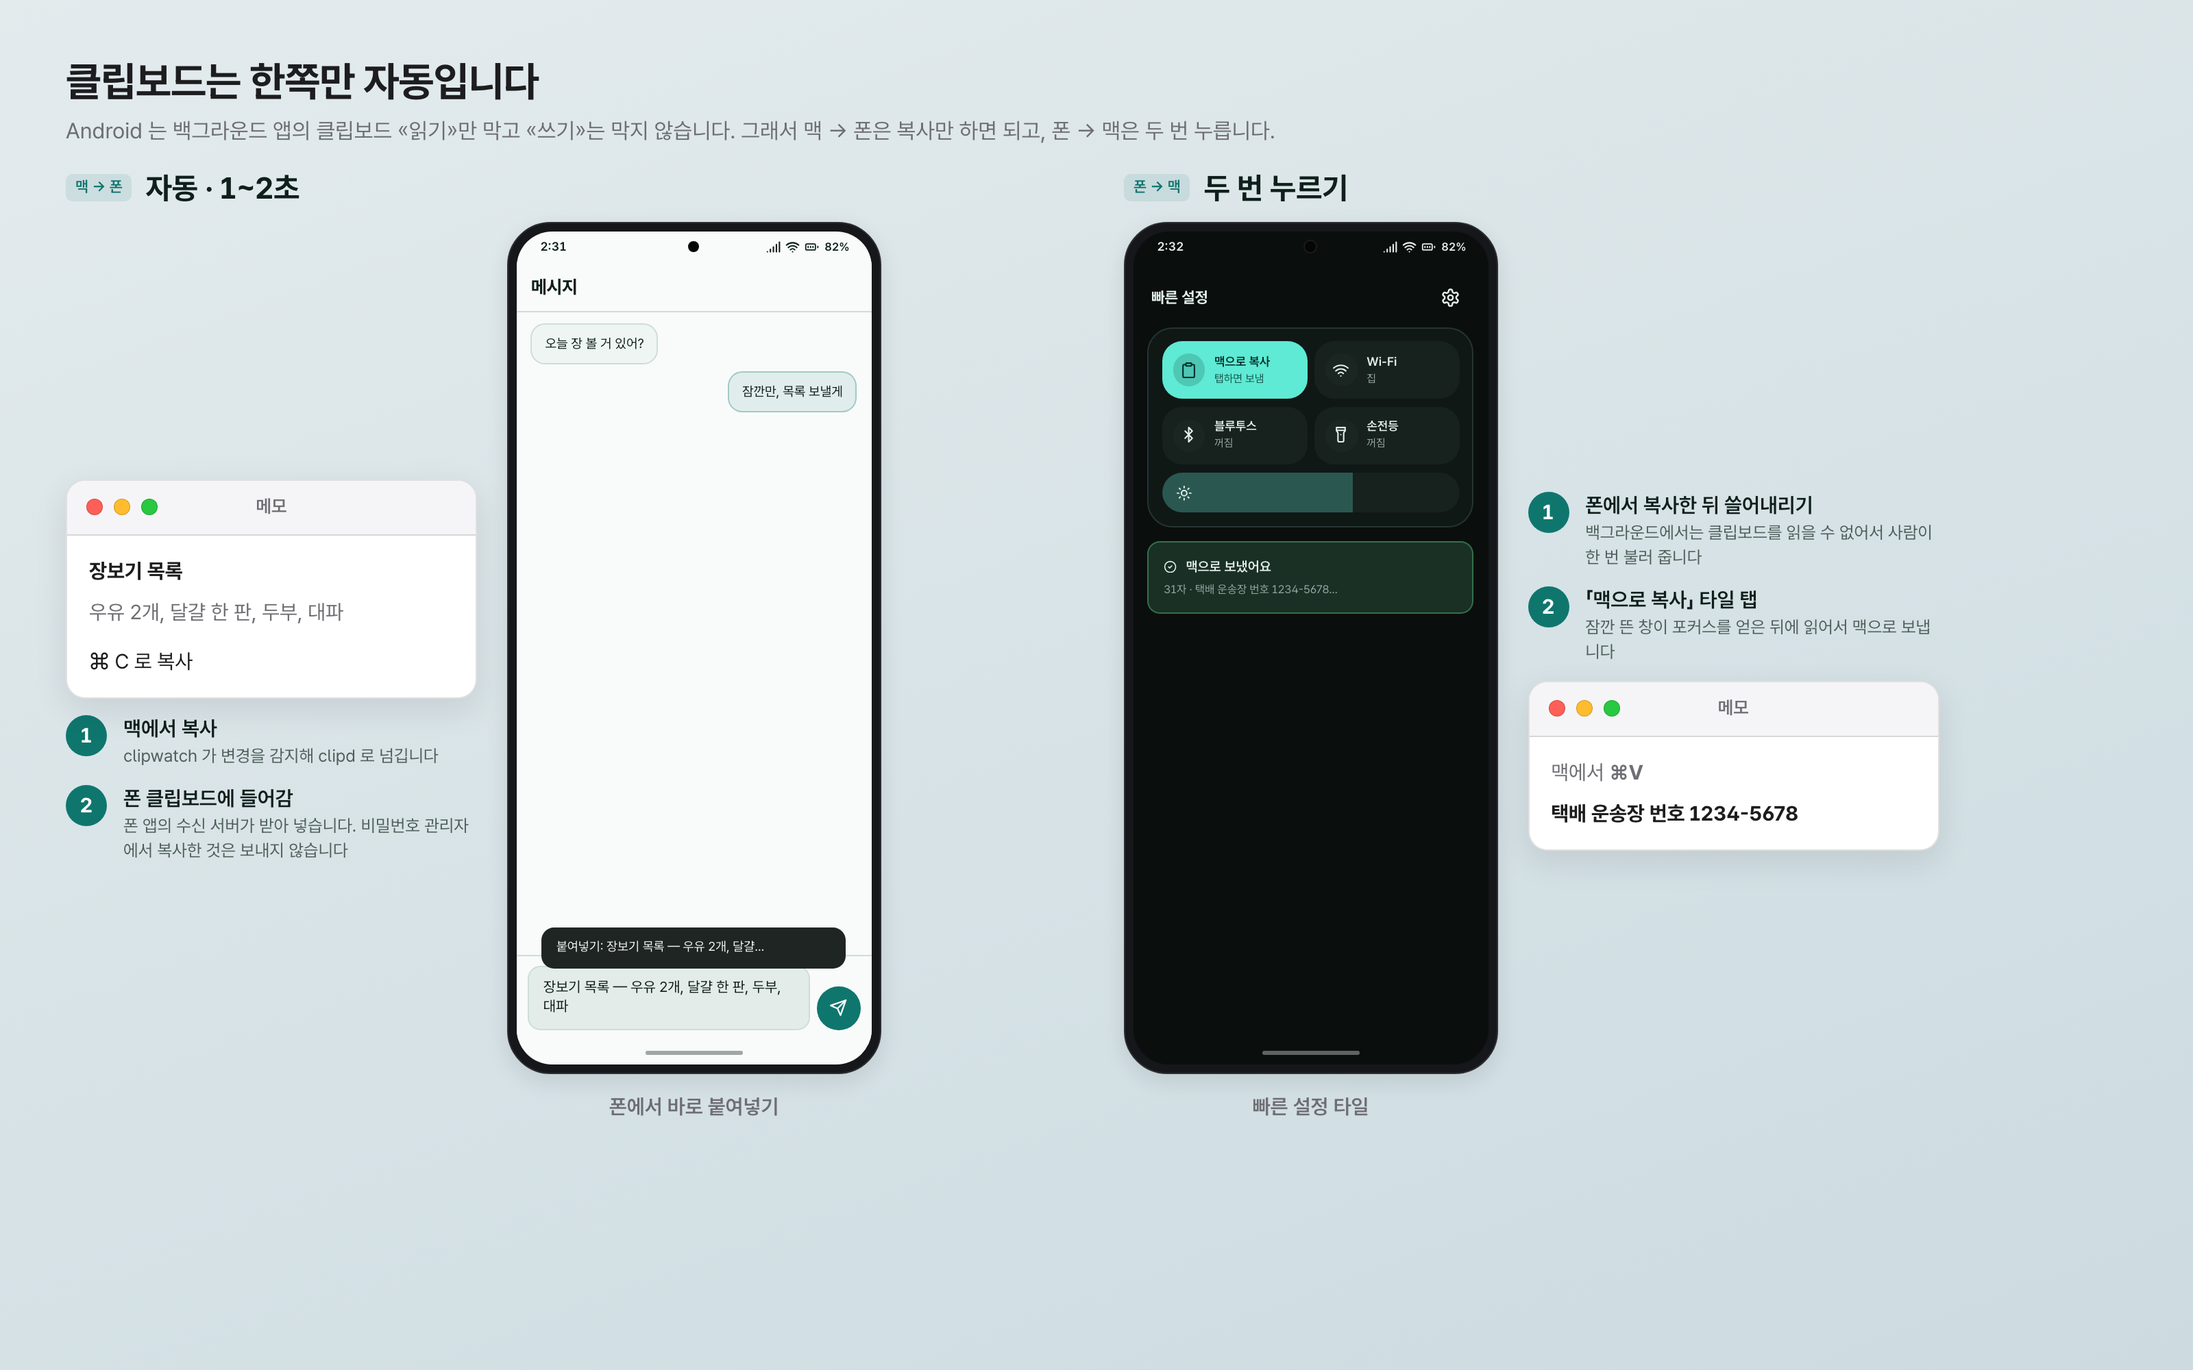
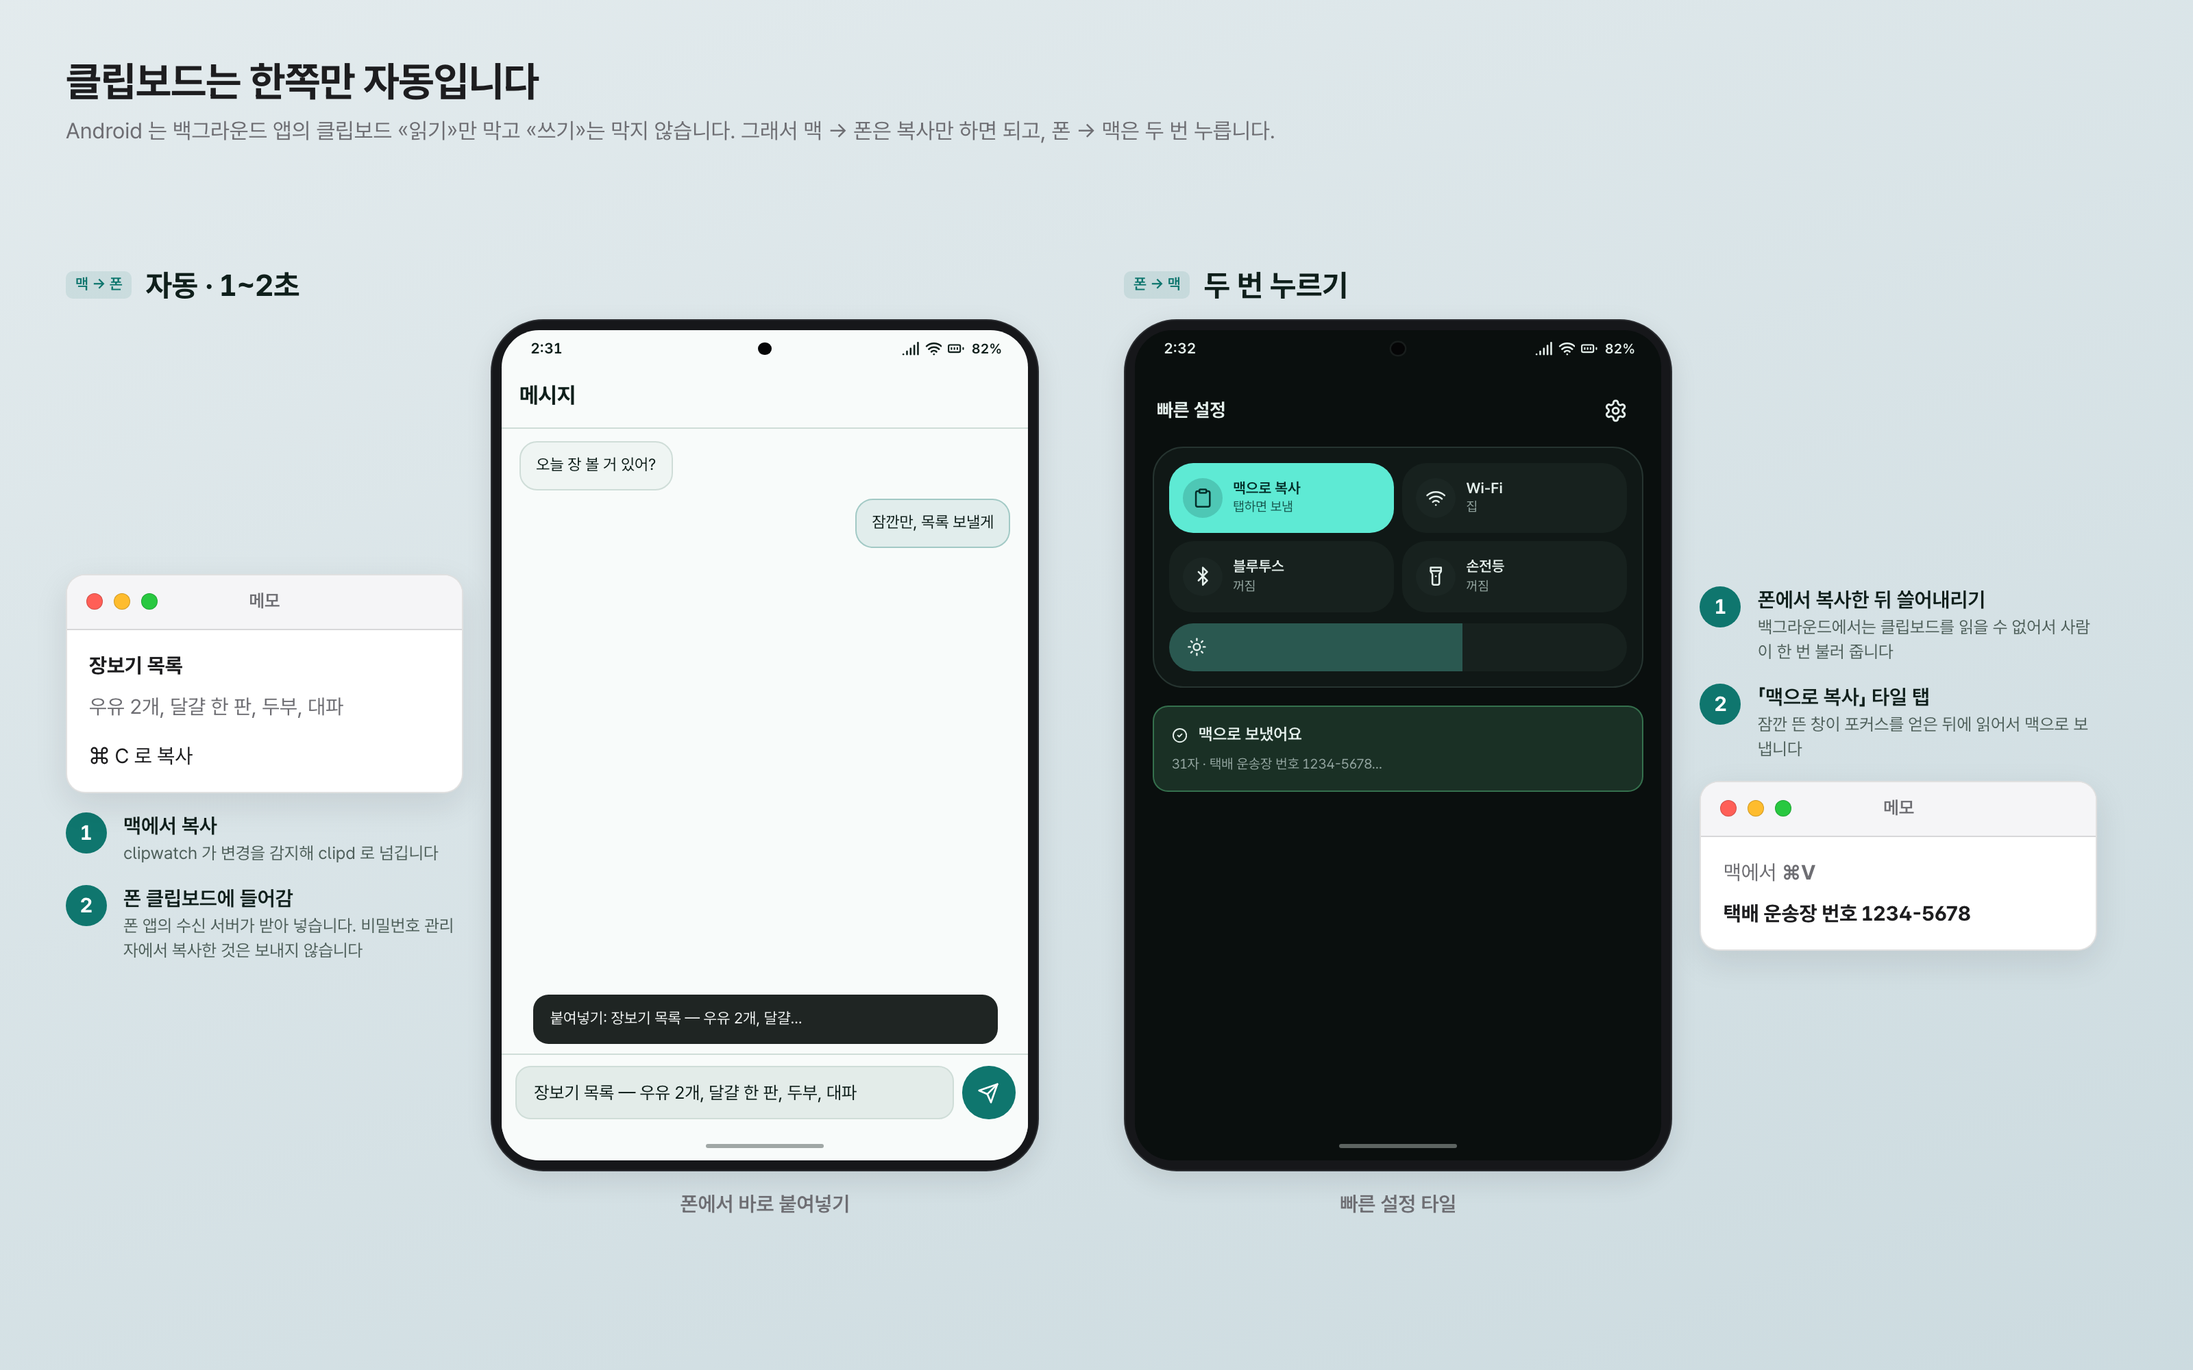
docs: re-render mockups at real Galaxy Z Fold8 ratios

Changed region(s): [[0.0312, 0.124, 0.9688, 0.899], [0.0625, 0.186, 0.1562, 0.217], [0.0625, 0.124, 0.1562, 0.155]]

diff --git a/docs/mockups/clipboard.html b/docs/mockups/clipboard.html
@@ -9,9 +9,9 @@
 <style>
   .layout { position: absolute; inset: 0; padding: 40px 48px; display: flex; flex-direction: column; gap: 18px; }
   .head { display: flex; flex-direction: column; gap: 6px; }
-  .row2 { flex: 1; display: grid; grid-template-columns: 1fr 1fr; gap: 40px; }
-  .flow { display: flex; align-items: center; gap: 22px; }
-  .steps { display: flex; flex-direction: column; gap: 12px; width: 300px; }
+  .row2 { flex: 1; display: grid; align-content: center; grid-template-columns: 1fr 1fr; gap: 40px; }
+  .flow { display: flex; align-items: center; gap: 20px; }
+  .steps { display: flex; flex-direction: column; gap: 14px; width: 290px; flex: none; }
   .step { display: flex; gap: 12px; align-items: flex-start; }
   .num { flex: none; width: 30px; height: 30px; border-radius: 15px; background: var(--accent); color: var(--on-accent); display: grid; place-items: center; font-weight: 700; font-size: 15px; }
   .qs-top { padding: 6px 4px 2px; display: flex; justify-content: space-between; align-items: center; }
@@ -33,7 +33,7 @@
       <div class="col-title"><span class="tag accent">맥 → 폰</span>자동 · 1~2초</div>
       <div class="flow">
         <div class="steps">
-          <div class="mac-window" style="width:300px">
+          <div class="mac-window" style="width:290px">
             <div class="mac-titlebar"><span class="traffic"><i></i><i></i><i></i></span><span class="mac-title">메모</span></div>
             <div class="mac-body snip">
               <div><b>장보기 목록</b></div>
@@ -45,7 +45,7 @@
           <div class="step"><span class="num">2</span><div><div class="card-title">폰 클립보드에 들어감</div><div class="meta">폰 앱의 수신 서버가 받아 넣습니다. 비밀번호 관리자에서 복사한 것은 보내지 않습니다</div></div></div>
         </div>
         <div>
-          <div class="fold-cover" style="--zoom:.66">
+          <div class="fold-cover" style="--zoom:.8">
             <div class="screen">
               <div class="status-bar" data-time="2:31"></div>
               <div class="app-bar"><span class="title">메시지</span></div>
@@ -71,7 +71,7 @@
       <div class="col-title"><span class="tag accent">폰 → 맥</span>두 번 누르기</div>
       <div class="flow">
         <div>
-          <div class="fold-cover dark" style="--zoom:.66">
+          <div class="fold-cover dark" style="--zoom:.8">
             <div class="screen">
               <div class="status-bar" data-time="2:32"></div>
               <div class="content">
@@ -98,7 +98,7 @@
         <div class="steps">
           <div class="step"><span class="num">1</span><div><div class="card-title">폰에서 복사한 뒤 쓸어내리기</div><div class="meta">백그라운드에서는 클립보드를 읽을 수 없어서 사람이 한 번 불러 줍니다</div></div></div>
           <div class="step"><span class="num">2</span><div><div class="card-title">「맥으로 복사」 타일 탭</div><div class="meta">잠깐 뜬 창이 포커스를 얻은 뒤에 읽어서 맥으로 보냅니다</div></div></div>
-          <div class="mac-window" style="width:300px">
+          <div class="mac-window" style="width:290px">
             <div class="mac-titlebar"><span class="traffic"><i></i><i></i><i></i></span><span class="mac-title">메모</span></div>
             <div class="mac-body snip">
               <div class="dim">맥에서 <b>⌘V</b></div>

diff --git a/docs/mockups/screen-kit.html b/docs/mockups/screen-kit.html
@@ -7,15 +7,15 @@
 <link rel="stylesheet" href="https://mockup-kit.invalid/kit.css">
 <script src="https://mockup-kit.invalid/kit.js"></script>
 <style>
-  .layout { position: absolute; top: 30px; left: 0; right: 0; bottom: 0; padding: 36px 44px; display: grid; grid-template-columns: 420px 1fr; gap: 36px; align-items: center; }
+  .layout { position: absolute; top: 30px; left: 0; right: 0; bottom: 0; padding: 36px 44px; display: grid; grid-template-columns: 440px 1fr; gap: 36px; align-items: center; }
   .left { display: flex; flex-direction: column; gap: 14px; align-items: center; }
   .mirror { width: max-content; }
   .mirror .mac-body { display: flex; justify-content: center; align-items: flex-start; padding: 18px; background: var(--panel2); }
   .mirror .mac-body > div { flex: none; }
-  .icons { display: grid; grid-template-columns: repeat(4, 1fr); gap: 16px 8px; padding: 18px 14px; }
-  .ic { display: flex; flex-direction: column; align-items: center; gap: 6px; font-size: 12px; color: var(--text); }
-  .ic .sq { width: 52px; height: 52px; border-radius: 16px; background: var(--panel2); border: 1px solid var(--border); display: grid; place-items: center; font-size: 22px; color: var(--dim); }
-  .ic .sq.folder { display: grid; grid-template-columns: 1fr 1fr; gap: 4px; padding: 9px; place-items: stretch; }
+  .icons { display: grid; grid-template-columns: repeat(4, 1fr); gap: 30px 10px; padding: 34px 26px; }
+  .ic { display: flex; flex-direction: column; align-items: center; gap: 8px; font-size: 14px; color: var(--text); }
+  .ic .sq { width: 68px; height: 68px; border-radius: 20px; background: var(--panel2); border: 1px solid var(--border); display: grid; place-items: center; font-size: 28px; color: var(--dim); }
+  .ic .sq.folder { display: grid; grid-template-columns: 1fr 1fr; gap: 5px; padding: 12px; place-items: stretch; }
   .ic .sq.folder b { border-radius: 5px; background: var(--accent-tint); border: 1px solid var(--border); }
 </style>
 </head>
@@ -35,7 +35,7 @@
       <div class="mac-window mirror">
         <div class="mac-titlebar"><span class="traffic"><i></i><i></i><i></i></span><span class="mac-title">Galaxy Z Fold 8</span></div>
         <div class="mac-body">
-          <div><div class="fold-cover" style="--zoom:.62">
+          <div><div class="fold-cover" style="--zoom:.66">
             <div class="screen">
               <div class="status-bar" data-time="4:10"></div>
               <div class="icons">

diff --git a/docs/mockups/scenes/2-notify-phone.html b/docs/mockups/scenes/2-notify-phone.html
@@ -1,23 +1,23 @@
 <!doctype html>
 <html lang="ko"><head><meta charset="utf-8">
-<meta name="shot" content="w=1296,h=1800,scale=1">
+<meta name="shot" content="w=1137,h=1800,scale=1">
 <title>장면 2 · 폰 커버 화면 — 메신저 알림</title>
 <link rel="stylesheet" href="https://mockup-kit.invalid/kit.css">
 <script src="https://mockup-kit.invalid/kit.js"></script>
 <style>
-  /* 폴드8 커버 화면 0.72:1 영역 — 360 x 500dp 를 3.6배 */
-  .screen { zoom: 3.6; width: 360px; height: 500px; border-radius: 0;
+  /* 폴드8 커버 화면 0.632:1 영역(실기 1248x1972) — 420 x 665dp 를 2.707배 */
+  .screen { zoom: 2.707; width: 420px; height: 665px; border-radius: 0;
     background: linear-gradient(180deg, #13302C 0%, #0B1B19 55%, #070D0C 100%); }
-  .status-bar { height: 26px; font-size: 12px; padding: 0 18px; }
-  .clockbig { text-align: center; color: #F2F5F4; margin-top: 18px; }
-  .clockbig .t { font-size: 64px; line-height: 68px; font-weight: 300; letter-spacing: -1px; }
-  .clockbig .d { font-size: 16px; line-height: 22px; opacity: .85; margin-top: 2px; }
-  .stack { margin: 22px 14px 0; display: flex; flex-direction: column; gap: 10px; }
-  .notif { border-radius: 20px; padding: 14px 16px; }
-  .notif .notif-head { font-size: 14px; line-height: 18px; gap: 6px; }
-  .notif .notif-head .ico { font-size: 15px; color: var(--accent); display: flex; }
-  .notif .notif-title { font-size: 21px; line-height: 28px; margin-top: 6px; }
-  .notif .notif-body { font-size: 20px; line-height: 28px; }
+  .status-bar { height: 30px; font-size: 14px; padding: 0 18px; }
+  .clockbig { text-align: center; color: #F2F5F4; margin-top: 44px; }
+  .clockbig .t { font-size: 84px; line-height: 90px; font-weight: 300; letter-spacing: -1px; }
+  .clockbig .d { font-size: 19px; line-height: 26px; opacity: .85; margin-top: 2px; }
+  .stack { margin: 40px 18px 0; display: flex; flex-direction: column; gap: 14px; }
+  .notif { border-radius: 22px; padding: 18px 20px; }
+  .notif .notif-head { font-size: 16px; line-height: 21px; gap: 6px; }
+  .notif .notif-head .ico { font-size: 17px; color: var(--accent); display: flex; }
+  .notif .notif-title { font-size: 24px; line-height: 32px; margin-top: 6px; }
+  .notif .notif-body { font-size: 22px; line-height: 31px; }
   .nav-handle { position: absolute; bottom: 6px; left: 0; right: 0; }
 </style></head><body>
 <div class="screen dark app-clipbridge">

diff --git a/docs/mockups/thumbnail.html b/docs/mockups/thumbnail.html
@@ -7,7 +7,7 @@
 <link rel="stylesheet" href="https://mockup-kit.invalid/kit.css">
 <script src="https://mockup-kit.invalid/kit.js"></script>
 <style>
-  .layout { position: absolute; inset: 0; padding: 0 80px; display: grid; grid-template-columns: 1fr 1fr; align-items: center; gap: 40px; }
+  .layout { position: absolute; inset: 0; padding: 0 80px; display: grid; grid-template-columns: 1.1fr 1fr; align-items: center; gap: 40px; }
   .txt { display: flex; flex-direction: column; gap: 20px; }
   .brand { display: flex; align-items: center; gap: 18px; }
   .brand img { width: 84px; height: 84px; border-radius: 20px; }
@@ -15,6 +15,14 @@
   .big { font-size: 40px; font-weight: 700; line-height: 1.3; letter-spacing: -.5px; }
   .sub { font-size: 22px; color: var(--dim); line-height: 1.5; }
   .chips .chip { font-size: 17px; padding: 8px 16px; }
+  /* 넓어진 커버에 맞춰 목록을 크게 흘린다 */
+  .devices .screen .content { gap: 14px; padding-top: 18px; }
+  .devices .card { padding: 18px; }
+  .devices .card-title { font-size: 18px; line-height: 25px; }
+  .devices .meta { font-size: 14.5px; line-height: 21px; }
+  .devices .section-label { font-size: 14px; }
+  .devices .list-row { padding: 18px 16px; gap: 14px; }
+  .devices .list-row .ico { font-size: 24px; }
   .devices { display: flex; align-items: center; justify-content: center; gap: 24px; }
 </style>
 </head>
@@ -28,7 +36,7 @@
       <div class="chips"><span class="chip on">클립보드</span><span class="chip">파일</span><span class="chip">링크</span><span class="chip">알림</span><span class="chip">문자 읽기</span><span class="chip">화면·카메라</span></div>
     </div>
     <div class="devices">
-      <div class="fold-cover" style="--zoom:.88">
+      <div class="fold-cover" style="--zoom:.92">
         <div class="screen">
           <div class="status-bar" data-time="2:31"></div>
           <div class="app-bar"><img class="mark" data-app="clipbridge" alt=""><span class="title">ClipBridge</span></div>

diff --git a/docs/mockups/notify-sms.html b/docs/mockups/notify-sms.html
@@ -7,10 +7,16 @@
 <link rel="stylesheet" href="https://mockup-kit.invalid/kit.css">
 <script src="https://mockup-kit.invalid/kit.js"></script>
 <style>
-  .layout { position: absolute; top: 30px; left: 0; right: 0; bottom: 0; display: flex; align-items: center; justify-content: center; gap: 44px; }
+  .layout { position: absolute; top: 30px; left: 0; right: 0; bottom: 0; display: flex; align-items: center; justify-content: center; gap: 48px; }
   .mac-col { width: 760px; display: flex; flex-direction: column; gap: 16px; }
   .banners { display: flex; flex-direction: column; gap: 10px; align-self: flex-end; width: 420px; }
   .banners .mac-notification { width: 100%; }
+  /* 넓어진 커버에 맞춰 알림 카드를 키운다 */
+  .fold-cover .notif-stack { gap: 10px; }
+  .fold-cover .notif { padding: 16px 18px; }
+  .fold-cover .notif .notif-head { font-size: 13.5px; line-height: 18px; }
+  .fold-cover .notif .notif-title { font-size: 18px; line-height: 26px; margin-top: 4px; }
+  .fold-cover .notif .notif-body { font-size: 16px; line-height: 23px; }
   .qs-top { padding: 6px 4px 2px; display: flex; justify-content: space-between; align-items: center; }
 </style>
 </head>
@@ -27,11 +33,11 @@
 
   <div class="layout">
     <div>
-      <div class="fold-cover" style="--zoom:.8">
+      <div class="fold-cover" style="--zoom:.86">
         <div class="screen">
           <div class="status-bar" data-time="3:05"></div>
           <div class="content">
-            <div class="qs-top"><span class="t-sheet">알림</span><span class="icon-btn"><i data-icon="settings"></i></span></div>
+            <div class="qs-top"><span class="t-sheet" style="font-size:20px">알림</span><span class="icon-btn"><i data-icon="settings"></i></span></div>
             <div class="notif-stack">
               <div class="notif">
                 <div class="notif-head"><span class="ico"><i data-icon="message"></i></span><span>메신저</span><span>· 지금</span></div>

diff --git a/docs/mockups/hero.html b/docs/mockups/hero.html
@@ -7,11 +7,13 @@
 <link rel="stylesheet" href="https://mockup-kit.invalid/kit.css">
 <script src="https://mockup-kit.invalid/kit.js"></script>
 <style>
-  .layout { position: absolute; top: 30px; left: 0; right: 0; bottom: 0; display: flex; align-items: center; justify-content: center; gap: 34px; }
-  .mac-col { width: 450px; display: flex; flex-direction: column; gap: 18px; }
+  .layout { position: absolute; top: 30px; left: 0; right: 0; bottom: 0; display: flex; align-items: center; justify-content: center; gap: 30px; }
+  .mac-col { width: 430px; display: flex; flex-direction: column; gap: 18px; }
   .mac-col .mac-notification { width: 100%; }
   .other-app { flex: 1; padding: 16px; display: flex; flex-direction: column; gap: 8px; }
   .pane .section-label:first-child { margin-top: 0; }
+  /* 커버가 넓어져 메모 본문과 공유 시트가 여유 있게 들어간다 */
+  .fold-cover .body { font-size: 15.5px; line-height: 24px; }
 </style>
 </head>
 <body>
@@ -31,7 +33,7 @@
 
     <!-- 펼친 화면: ClipBridge 홈 -->
     <div>
-      <div class="fold-open" style="--zoom:.76">
+      <div class="fold-open" style="--zoom:.7">
         <div class="screen">
           <div class="status-bar" data-time="2:30"></div>
           <div class="app-bar">
@@ -88,7 +90,7 @@
 
     <!-- 커버 화면: 공유 시트 -->
     <div>
-      <div class="fold-cover" style="--zoom:.76">
+      <div class="fold-cover" style="--zoom:.7">
         <div class="screen">
           <div class="status-bar" data-time="2:30"></div>
           <div class="app-bar"><span class="icon-btn" style="margin-left:-10px"><i data-icon="arrow-left"></i></span><span class="title">메모</span><span class="spacer"></span></div>

diff --git a/docs/mockups/scenes/2-notify-mac.html b/docs/mockups/scenes/2-notify-mac.html
@@ -1,17 +1,17 @@
 <!doctype html>
 <html lang="ko"><head><meta charset="utf-8">
-<meta name="shot" content="w=1800,h=1296,scale=1">
+<meta name="shot" content="w=1800,h=1454,scale=1">
 <title>장면 2 · 맥 화면 오른쪽 — 알림센터 배너</title>
 <link rel="stylesheet" href="https://mockup-kit.invalid/kit.css">
 <script src="https://mockup-kit.invalid/kit.js"></script>
 <style>
-  /* 클로즈업 배경에서 맥은 왼쪽이 잘려 보인다 → 맥 화면의 오른쪽 부분(1.39:1)만 그린다 */
-  .desk { zoom: 2.25; width: 800px; height: 576px; position: relative; overflow: hidden;
+  /* 클로즈업 배경에서 맥은 왼쪽이 잘려 보인다 → 맥 화면의 오른쪽 부분(1.24:1)만 그린다 */
+  .desk { zoom: 2.25; width: 800px; height: 646px; position: relative; overflow: hidden;
     background: radial-gradient(120% 90% at 80% 0%, #CFE7E2 0%, #9FC7C0 45%, #6E9E97 100%); }
   .mac-menubar { height: 30px; font-size: 15px; gap: 18px; }
   .mac-menubar .extra { font-size: 17px; }
   .mac-menubar .clock { font-size: 15px; }
-  .doc { position: absolute; left: 16px; top: 250px; width: 380px; height: 360px; }
+  .doc { position: absolute; left: 60px; top: 270px; width: 380px; height: 400px; }
   .doc .mac-body { padding: 20px 24px; font-size: 17px; line-height: 28px; }
   .doc h2 { margin: 0 0 4px; font-size: 22px; line-height: 30px; }
   .banners { position: absolute; right: 14px; top: 42px; display: flex; flex-direction: column; gap: 12px; z-index: 5; }
